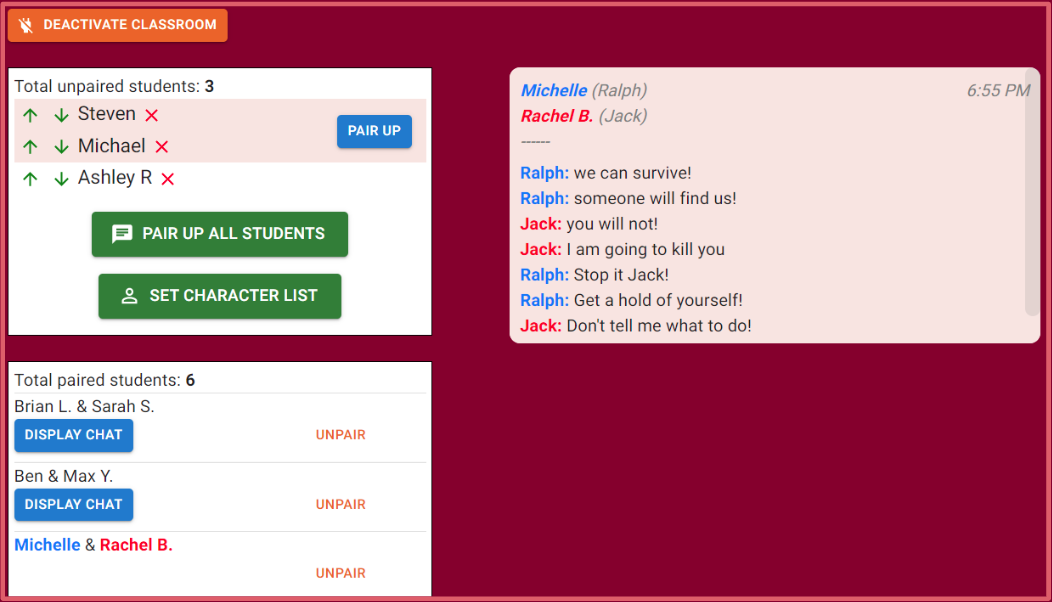
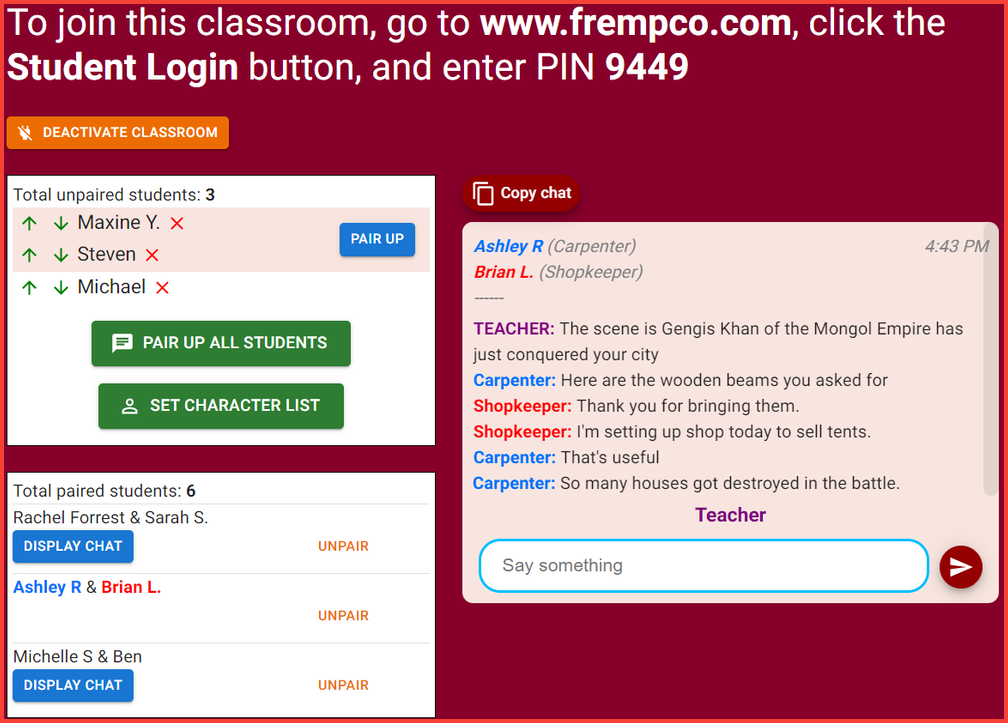
Updated homepage screenshots and contact us text

diff --git a/src/components/pages/HomePage/index.tsx b/src/components/pages/HomePage/index.tsx
@@ -133,11 +133,7 @@ export default function HomePage() {
             color={(theme) => theme.palette.common.white}
             textAlign='center'
           >
-            Two 10th grade students taking on the roles of characters from the
-            novel,{' '}
-            <Box component='span' fontStyle='italic' fontSize={20}>
-              “Lord of the Flies.”
-            </Box>
+            Two students taking on roles from History.
           </Typography>
         </Grid>
       </Grid>
@@ -182,8 +178,7 @@ export default function HomePage() {
           </List>
         </Box>
         <Typography fontSize={24} py={4} textAlign='center'>
-          If you have questions or would like free trial access, email Moshe
-          Siegel at siegel.moshes@gmail.com
+          To contact us, email Moshe Siegel at siegel.moshes@gmail.com
         </Typography>
       </Box>
 
